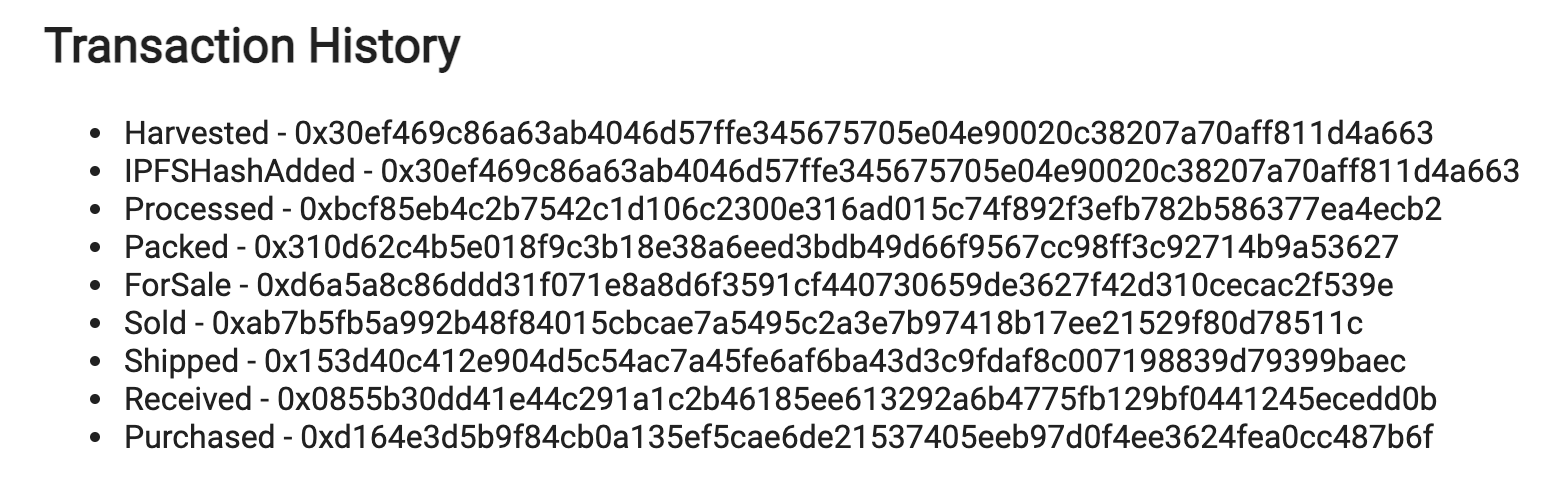
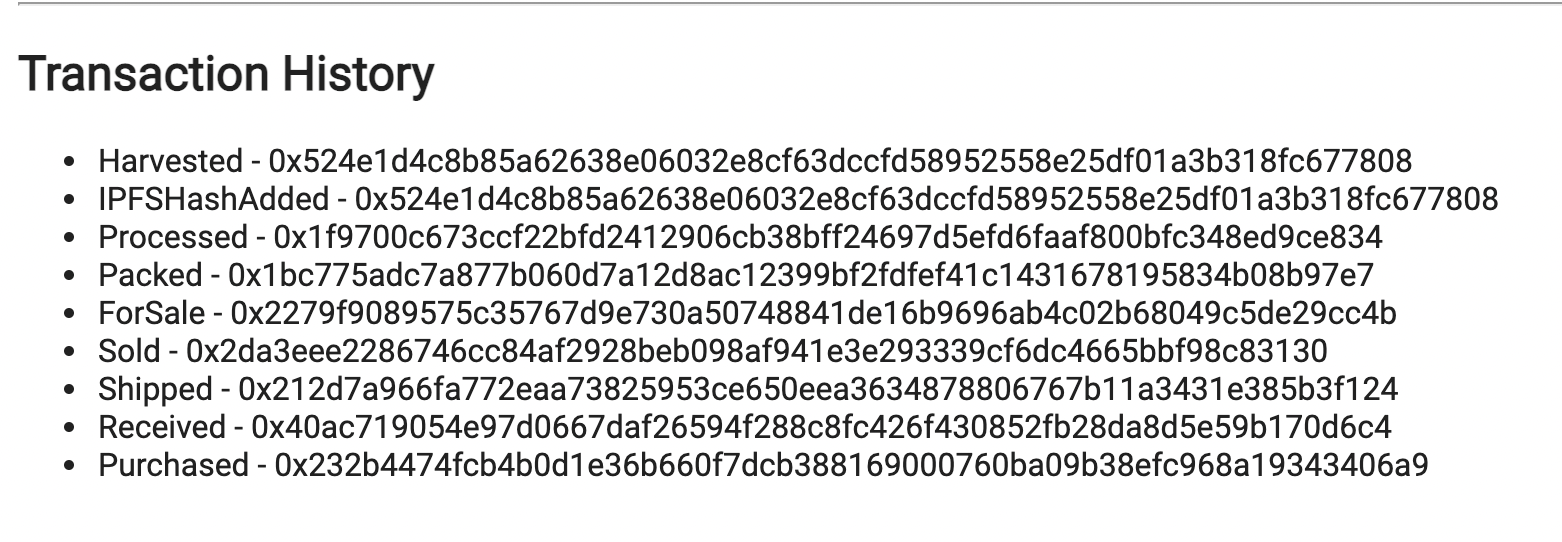
Adding transaction IDs to README. Explaining why I used truffle and web3

Changed region(s): [[0.0308, 0.2449, 0.9871, 0.9184], [0.0, 0.0, 1.0, 0.1837]]

diff --git a/README.md b/README.md
@@ -16,6 +16,10 @@ Please find these under the folder UML
 * Web3.js v1.3.6
 
 I am using truffle hdwallet provider to connect to rinkeby using my metamask credentials, webpack for the UI, and IPFS as per below section.
+
+I am using web3 as a javascript library that allows me to interact with a local blockchain for testing (running Ganache for example), but also the Ethereum testnets and mainnet. Without web3, it would be very difficult to do that as it provides all the needed interfaces.
+
+I am using truffle as a tool and library for Ethereum smart contract development. Truffle offers a local blockchain, but also an all inclusive framework ranging from smart contract deployment on the chain, to providing a testing framework, a front end, as well as a series of "boxes" that serve as a starting template.
 # IPFS
 ## Image upload
 I have used the library ipfs-http-client to be able to complete the optional part of the project. This library allows controlling an IPFS node through Javascript.
@@ -82,6 +86,7 @@ The IPFS Hash of the picture is a hyperlink, if you click on it, it will take yo
 Also note the 2 buttons "Fetch Data 1" and "Fetch Data 2" would output the data to the console, but will also populate the relevant fields (and therefore you would lose the default values populated there).
 
 # Rinkeby
+## Contracts
 The contracts were deployed to the Rinkeby testnet at the following address:
 
 | Contract Name   | Contract Address                           |
@@ -91,3 +96,17 @@ The contracts were deployed to the Rinkeby testnet at the following address:
 | RetailerRole    | 0x2E888C8150243c75959E5C78cBd3C3A871c127a3 |
 | ConsumerRole    | 0xD4d250d3C20f9eA2d95BeC3DE9B4780AA064De3D |
 | SupplyChain     | 0x89337E44DbfBb5c60c16D825A0Cee42C0248766d |
+
+## Transactions
+Please find below the Transaction IDs:
+
+| Action    | Transaction ID                                                     |
+| --------- | ------------------------------------------------------------------ |
+| Harvested | 0x524e1d4c8b85a62638e06032e8cf63dccfd58952558e25df01a3b318fc677808 |
+| Processed | 0x1f9700c673ccf22bfd2412906cb38bff24697d5efd6faaf800bfc348ed9ce834 |
+| Packed    | 0x1bc775adc7a877b060d7a12d8ac12399bf2fdfef41c1431678195834b08b97e7 |
+| ForSale   | 0x2279f9089575c35767d9e730a50748841de16b9696ab4c02b68049c5de29cc4b |
+| Sold      | 0x2da3eee2286746cc84af2928beb098af941e3e293339cf6dc4665bbf98c83130 |
+| Shipped   | 0x212d7a966fa772eaa73825953ce650eea3634878806767b11a3431e385b3f124 |
+| Received  | 0x40ac719054e97d0667daf26594f288c8fc426f430852fb28da8d5e59b170d6c4 |
+| Purchased | 0x232b4474fcb4b0d1e36b660f7dcb388169000760ba09b38efc968a19343406a9 |
